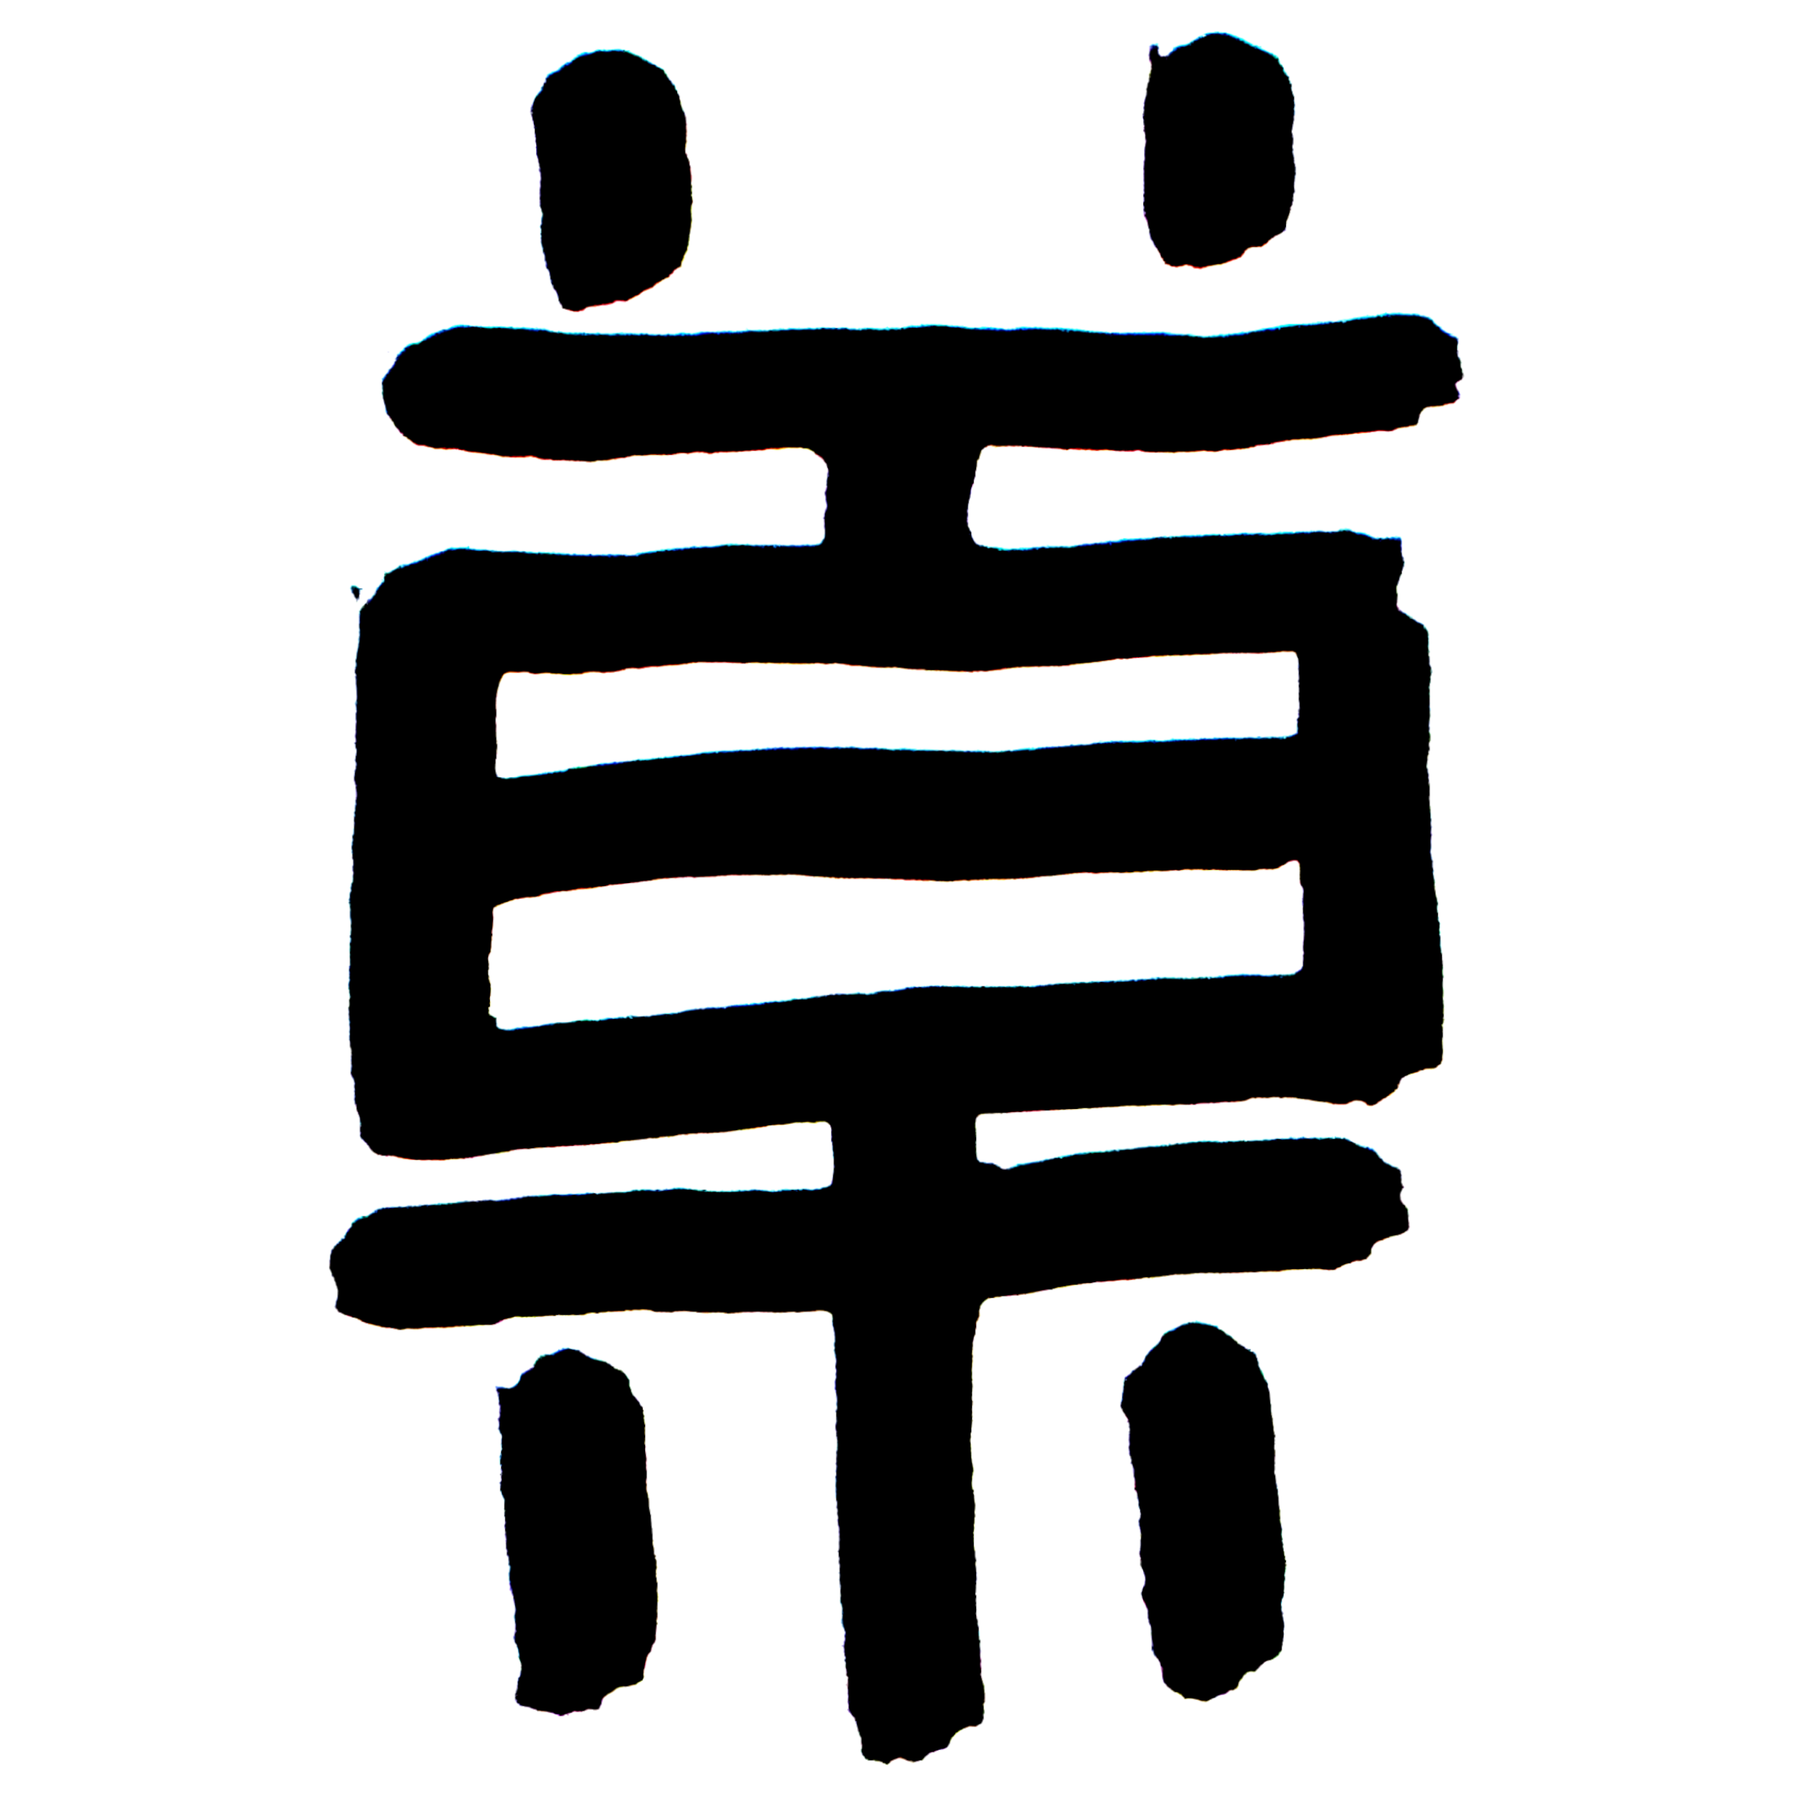
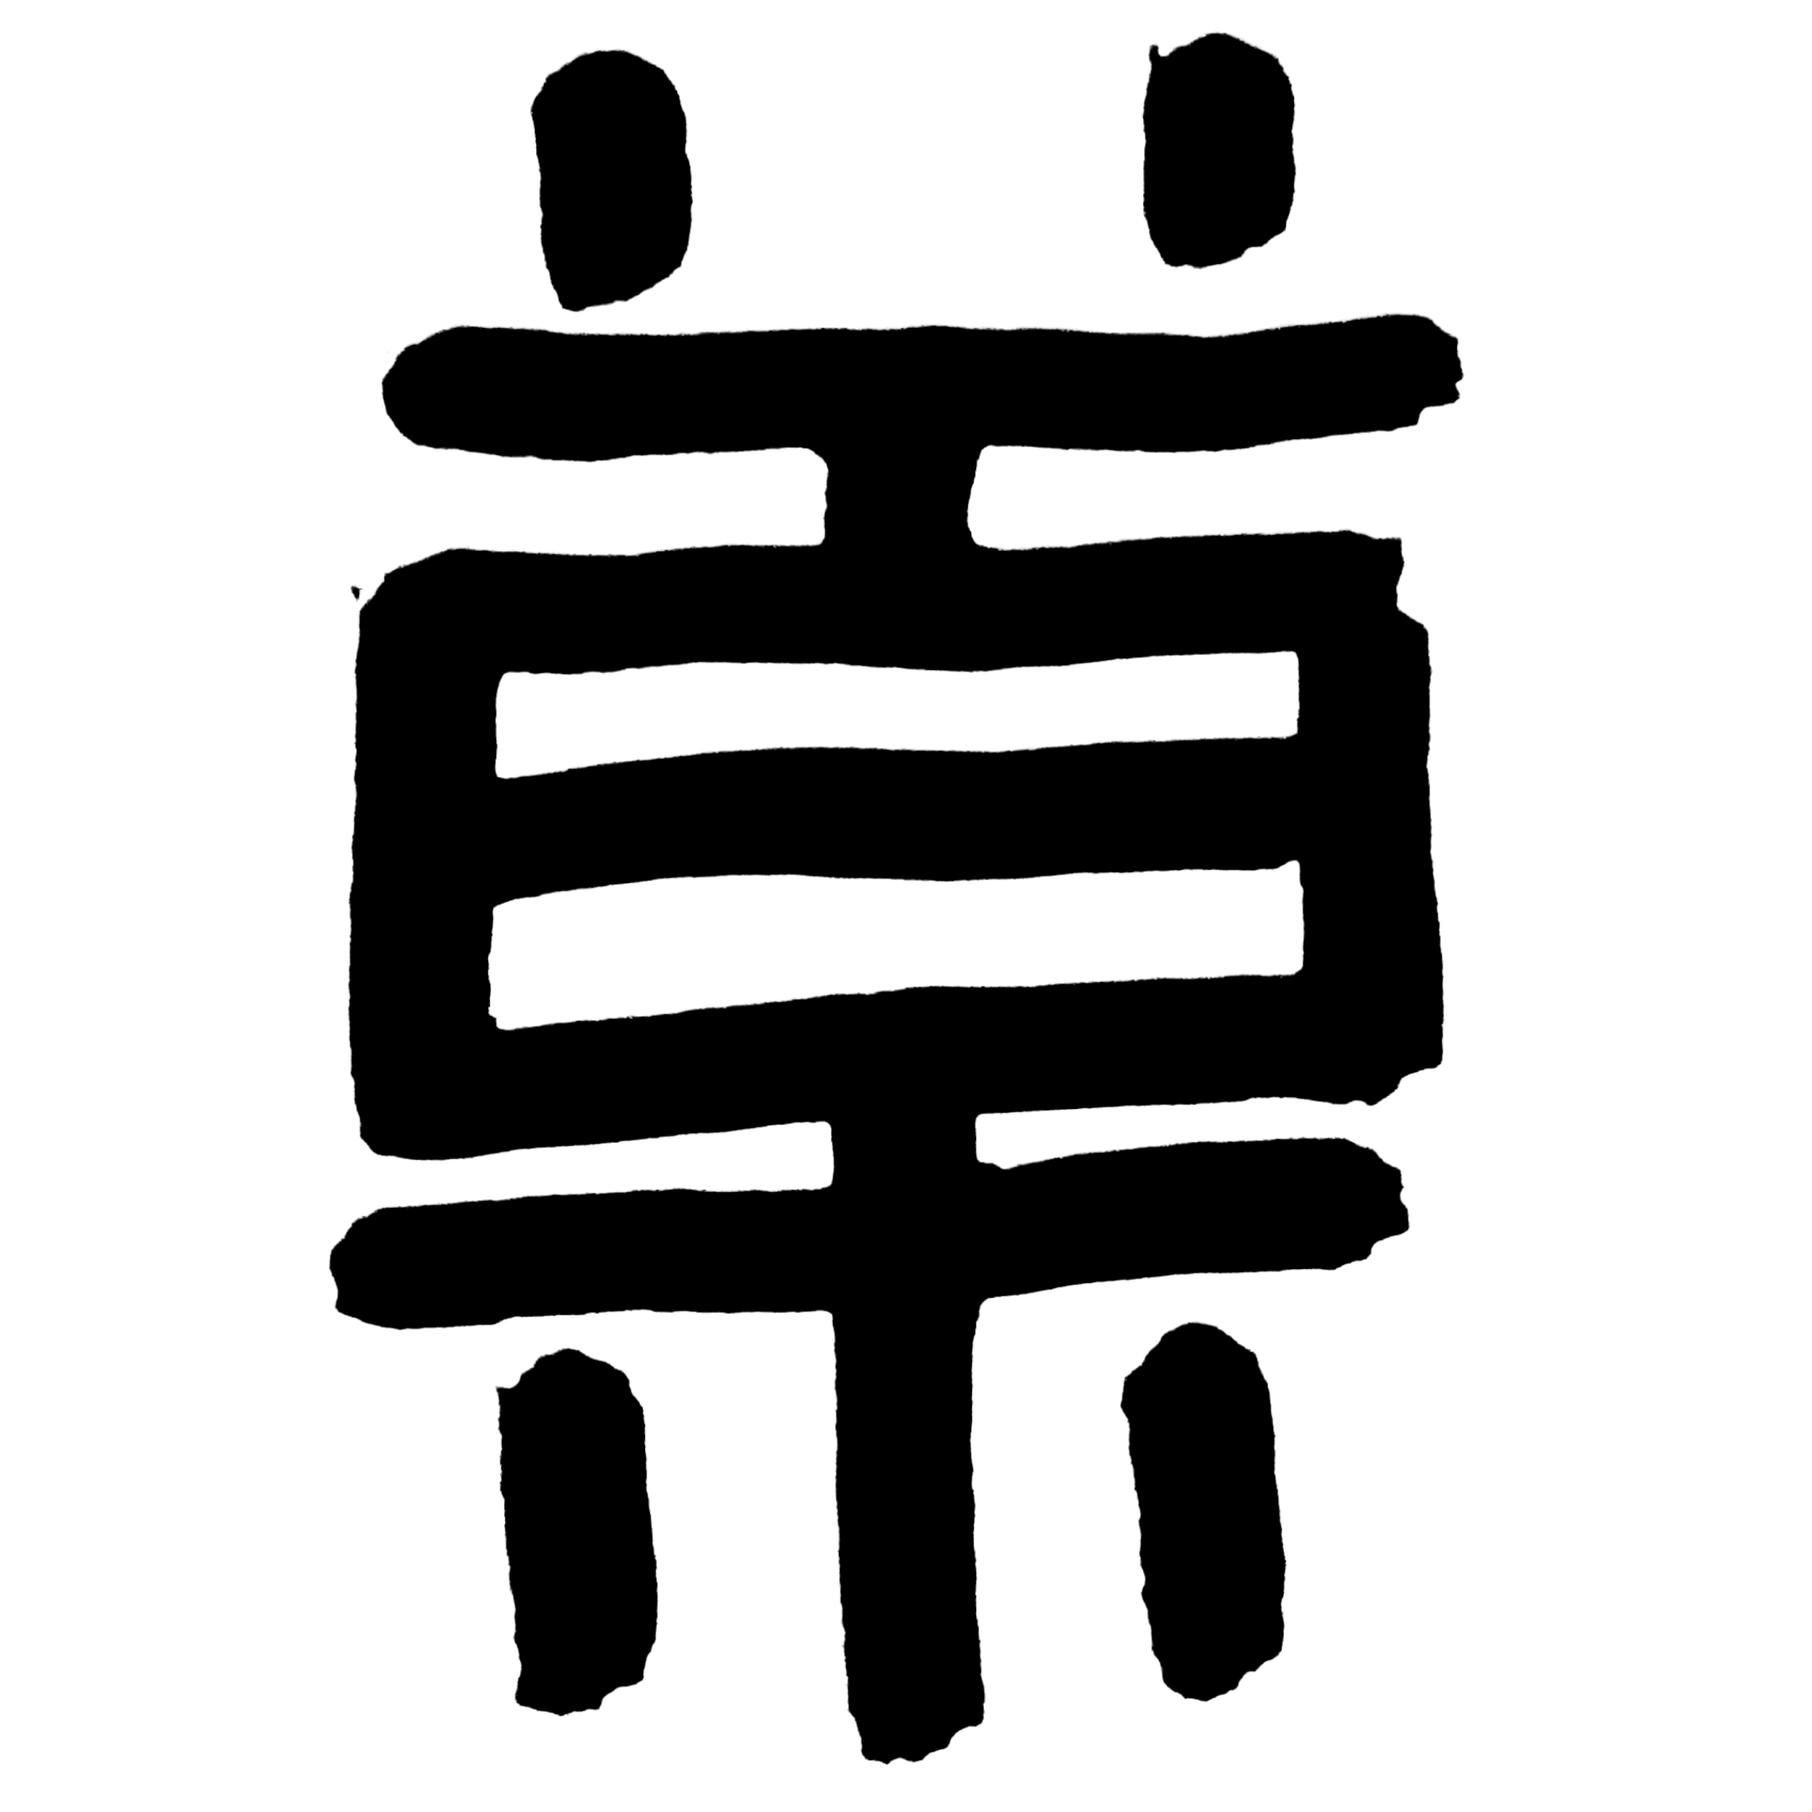
add new image, cut some content, change color, new look 2025

Changed region(s): [[0.31, 0.155, 0.341, 0.186]]

diff --git a/src/template/massage-explanation.tsx b/src/template/massage-explanation.tsx
@@ -11,25 +11,30 @@ const MassageExplanation = () => {
   }, []);
   return (
     <div >
-      <Prices />
-      <div className="flex-container">
-        <h2>Horaires</h2>
-        <br />
-        <p>Je suis disponible du <b>samedi au mardi</b>.</p>
-        <p>Contacter moi pour plus d'information.</p>
-        <br />
-      </div>
-      <br />
       <ul className="list">
         <li className="split">
-          <Image src={`${PATH}/documents/img/shooting/ab_02.jpeg`} width={2000} height={2000} placeholder="blur" blurDataURL={`${PATH}/documents/img/fast-loading/lc-ab_02.jpeg`} alt="hand massage picture" />
+          <div>
+            <Image src={`${PATH}/documents/img/shooting/AM_111.jpeg`} width={2000} height={2000} placeholder="blur" blurDataURL={`${PATH}/documents/img/fast-loading/lc-AM_111.jpeg`} alt="hand massage picture" />
+            <Prices />
+            <div className="flex-container">
+              <br />
+              <h1>Disponibilités</h1>
+              <br />
+              <p>Je suis disponible du <b>samedi au mardi</b>.</p>
+              <p>Contacter moi pour plus d'information.</p>
+              <br />
+            </div>
+          </div>
           <div className="flex-container">
-            <h2>Déroulement d'une séance</h2>
             <br />
-            <h3 className="right">Phase I :</h3><p>Chaque séance débute par un moment d’échange où vous partagez vos attentes, vos éventuelles tensions, ou simplement vos besoins du moment.</p>
-            <h3 className="right">Phase II :</h3><p>Je m'appuie sur mon expérience en Reiki et ma compréhension de l'équilibre corps-esprit pour adapter mes gestes à vos besoins.</p>
-            <h3 className="right">Phase III :</h3><p>À la fin de la séance, un temps est réservé pour revenir doucement à vous, avec éventuellement un échange pour approfondir les bienfaits du massage.</p>
+            <h3 className="right">Reiki :</h3><p>C'est ma porte d'entrée dans ce monde de la relaxation de l'écoute. Permet des effets inattendus, permet une bonne introduction en début de séance ou même pour la terminer. Un bon moyen d'atteindre un état de relaxation profond. S'utilise aussi en séance complète, même si ce n'est pas pour tout le monde.</p>
             <br />
+            <h3 className="right">Massage des Fascias :</h3><p>Après plusieurs formations sur l'anatomie et l'importance des fascias, c'est quelque chose que j'affectionne pour relâcher les tensions excessives et permettre au corps de regagner une certaine sérénité. Les fascias connectent tous notre corps, des pieds à la tête et passant par les organes. Il est donc essentiel pour moi de les considérer et de leur apporter le soin qu'ils méritent.</p>
+            <br />
+            <h3 className="right">Massage à l'huile :</h3><p>Permet un profond relâchement, grâce au mouvement ample et long que peux apporter quelques gouttes d'huile lors d'un massage. Si vous êtes du genre à vous crisper, une bonne huile de massage et beaucoup de temps, voilà le combo idéal pour vous aider à oublier vos soucis.</p>
+            <br />
+            <h4>À vous de choisir</h4>
+            <p>En fonction de vos envies et de vos besoins, je peux tout à fait mélanger ces trois pratiques. Où vous pouvez vous dédier complètement à l'une où l'autre.</p>
           </div>
         </li>
       </ul>
@@ -39,11 +44,11 @@ const MassageExplanation = () => {
             <button>Réserver par mail</button>
           </a>
         )}
-        {domLoaded && (
+        {/* {domLoaded && (
           <a className="link" href={`tel:${PHONE}`}>
             <button>Réserver par téléhone</button>
           </a>
-        )}
+        )} */}
       </div>
       <br />
     </div>

diff --git a/src/template/landing.tsx b/src/template/landing.tsx
@@ -1,0 +1,49 @@
+import Image from "next/image";
+import { PATH } from "../../utils/constants";
+import { usePathname } from "next/navigation";
+import { useEffect, useState } from "react";
+
+const Landing = () => {
+  const pathname = usePathname()
+  const [domLoaded, setDomLoaded] = useState(false);
+
+  useEffect(() => {
+    setDomLoaded(true);
+  }, []);
+
+  return (
+    <>
+      <div>
+        <ul className="list">
+          <a className="link" href={`${PATH}/massage`}>
+            <li className="split">
+              <Image src={`${PATH}/documents/img/shooting/AM_115.jpeg`} width={2000} height={2000} placeholder="blur" blurDataURL={`${PATH}/documents/img/fast-loading/lc-AM_115.jpeg`} alt="hand massage picture" />
+              <div className="flex-container">
+                <h2>Massage-Reiki</h2>
+                <p>Offrez-vous un moment unique de bien-être où détente physique et harmonie intérieure se rencontrent, grâce à un massage qui écoute votre corps autant que votre esprit.</p>
+                <br />
+                {domLoaded && (
+                  <a className="link right" href={`${PATH}/massage`}>
+                    <button className={pathname === "/massage" ? "active-button" : ""} >Plus d'info</button>
+                  </a>
+                )}
+              </div>
+            </li>
+          </a>
+          <a className="link" href={`${PATH}/about`}>
+            <li className="split">
+              <div className="flex-container">
+                <h2>Qu'est-ce que le Reiki?</h2>
+                <p>
+                  Le Reiki est une pratique énergétique douce et naturelle, destinée à harmoniser le corps et l'esprit. À travers un toucher ou un simple placement des mains, le praticien agit comme un jardinier attentif qui aide à créer les conditions propices à votre épanouissement...
+                </p>
+              </div>
+              <Image src={`${PATH}/documents/img/shooting/AP_029.jpeg`} width={2000} height={2000} placeholder="blur" blurDataURL={`${PATH}/documents/img/fast-loading/lc-AP_029.jpeg`} alt="profil picture" />
+            </li>
+          </a>
+        </ul>
+      </div>
+    </>
+  )
+}
+export default Landing;

diff --git a/src/template/about.tsx b/src/template/about.tsx
@@ -7,13 +7,13 @@ const About = () => {
       <div>
         <ul className="list">
           <li className="split">
-            <Image src={`${PATH}/documents/img/shooting/ab_04.jpeg`} width={2000} height={2000} placeholder="blur" blurDataURL={`${PATH}/documents/img/fast-loading/lc-ab_04.jpeg`} alt="profil picture" />
             <div className="flex-container">
               <h2>Qu'est-ce que le Reiki?</h2>
               <p>
                 Le Reiki est une pratique énergétique douce et naturelle, destinée à harmoniser le corps et l'esprit. À travers un toucher ou un simple placement des mains, le praticien agit comme un jardinier attentif qui aide à créer les conditions propices à votre épanouissement...
               </p>
             </div>
+            <Image src={`${PATH}/documents/img/shooting/AP_029.jpeg`} width={2000} height={2000} placeholder="blur" blurDataURL={`${PATH}/documents/img/fast-loading/lc-AP_029.jpeg`} alt="profil picture" />
           </li>
         </ul>
       </div>

diff --git a/src/template/prices.tsx b/src/template/prices.tsx
@@ -8,20 +8,20 @@ const Prices = () => {
         <thead>
           <tr>
             <th>Durée</th>
-            <th>Habillé</th>
+            <th>Reiki / Fascia</th>
             <th>À l’huile</th>
           </tr>
         </thead>
         <tbody>
           <tr>
             <td data-label="Durée">60 min</td>
-            <td data-label="Massage habillé">55 €</td>
-            <td data-label="Massage à l’huile">60 €</td>
+            <td data-label="Massage habillé">60 €</td>
+            <td data-label="Massage à l’huile">65 €</td>
           </tr>
           <tr>
             <td data-label="Durée">90 min</td>
-            <td data-label="Massage habillé">70 €</td>
-            <td data-label="Massage à l’huile">75 €</td>
+            <td data-label="Massage habillé">75 €</td>
+            <td data-label="Massage à l’huile">80 €</td>
           </tr>
         </tbody>
       </table>

diff --git a/src/template/header.tsx b/src/template/header.tsx
@@ -5,10 +5,10 @@ const Header = () => {
   return (
     <div className="header flex-container" >
       <div className="header-text">
-        <h2 >"La personne la plus importante dans votre vie c'est vous-même. Sans énergie pour soi, il est impossible d'aider les autres."</h2>
+        <h2 >"La personne la plus importante dans votre vie c'est vous-même. Sans énergie pour soi, il est impossible d'être présent pour les autres."</h2>
         <p >Didier Dom</p>
       </div>
-      <Image src={`${PATH}/documents/img/shooting/pm_04.JPG`} width={2000} height={2000} placeholder="blur" blurDataURL={`${PATH}/documents/img/fast-loading/lc-pm_04.JPG`} alt="close up hands" />
+      <Image src={`${PATH}/documents/img/shooting/AM_039.jpeg`} width={2000} height={2000} placeholder="blur" blurDataURL={`${PATH}/documents/img/fast-loading/lc-AM_039.jpeg`} alt="close up hands" />
     </div>
   )
 }

diff --git a/src/template/navbar.tsx b/src/template/navbar.tsx
@@ -18,11 +18,11 @@ const Navbar = () => {
             <button className={pathname === "/" ? "active-button" : ""}>Accueil</button>
           </a>
           <a className="link" href={`${PATH}/massage`}>
-            <button className={pathname === "/massage" ? "active-button" : ""} >Tarifs</button>
+            <button className={pathname === "/massage" ? "active-button" : ""} >Mes services</button>
           </a>
-          <a className="link" href={`${PATH}/gallery`}>
+          {/* <a className="link" href={`${PATH}/gallery`}>
             <button className={pathname === "/gallery" ? "active-button" : ""} >Galerie</button>
-          </a>
+          </a> */}
           <a className="link" href={`${PATH}/about`}>
             <button className={pathname === "/about" ? "active-button" : ""} >À propos</button>
           </a>

diff --git a/src/template/navbar-about.tsx b/src/template/navbar-about.tsx
@@ -13,7 +13,7 @@ const NavbarAbout: FC<PROPS> = ({ subPage, setSubPage }) => {
         <div className="index-grid container">
           <button className={subPage === "What" ? "active-button" : ""} onClick={() => setSubPage("What")}>Qu'est-ce que le Reiki?</button>
           <button className={subPage === "Approach" ? "active-button" : ""} onClick={() => setSubPage("Approach")}>Mon approche</button>
-          <button className={subPage === "Table" ? "active-button" : ""} onClick={() => setSubPage("Table")}>À table</button>
+          {/* <button className={subPage === "Table" ? "active-button" : ""} onClick={() => setSubPage("Table")}>À table</button> */}
           {/* <button className={subPage === "About" ? "active-button" : ""} onClick={() => setSubPage("About")}>Mon parcours</button> */}
         </div>
       </div>

diff --git a/src/template/massage.tsx b/src/template/massage.tsx
@@ -16,7 +16,7 @@ const Massage = () => {
       <div>
         <ul className="list">
           <li className="split">
-            <Image src={`${PATH}/documents/img/shooting/ab_02.jpeg`} width={2000} height={2000} placeholder="blur" blurDataURL={`${PATH}/documents/img/fast-loading/lc-ab_02.jpeg`} alt="hand massage picture" />
+            <Image src={`${PATH}/documents/img/shooting/AM_115.jpeg`} width={2000} height={2000} placeholder="blur" blurDataURL={`${PATH}/documents/img/fast-loading/lc-ab_02.jpeg`} alt="hand massage picture" />
             <div className="flex-container">
               <h2>Massage-Reiki</h2>
               <p>Offrez-vous un moment unique de bien-être où détente physique et harmonie intérieure se rencontrent, grâce à un massage qui écoute votre corps autant que votre esprit.</p>

diff --git a/src/styles/design.css b/src/styles/design.css
@@ -14,7 +14,7 @@
 .header-text {
   position: absolute;
   margin: 1.5em;
-  color: white;
+  color: rgb(250, 240, 230);
 }
 
 .active-button {
@@ -47,7 +47,7 @@
 }
 
 .list img {
-  max-width: 16em;
+  max-width: 24em;
   object-fit: contain;
   object-position: 50% 0;
   margin-bottom: 1em;
@@ -57,13 +57,19 @@
 .list {
   width: 100%;
   list-style: none;
-  border-bottom: 1px solid rgba(0, 0, 0, 0.1);
 }
 
 .list li {
   width: 100%;
-  border-top: 1px solid rgba(0, 0, 0, 0.1);
   padding: 1em;
+}
+
+.list li:first-child {
+  border-top: 1px solid rgba(0, 0, 0, 0.1);
+}
+
+.list li:last-child {
+  border-bottom: 1px solid rgba(0, 0, 0, 0.1);
 }
 
 .flex-container {

diff --git a/src/template/what-is-reiki.tsx b/src/template/what-is-reiki.tsx
@@ -6,7 +6,7 @@ const WhatIsReiki = () => {
     <div>
       <ul className="list">
         <li className="split">
-          <Image src={`${PATH}/documents/img/shooting/ab_04.jpeg`} width={2000} height={2000} placeholder="blur" blurDataURL={`${PATH}/documents/img/fast-loading/lc-ab_04.jpeg`} alt="profil picture" />
+          <Image src={`${PATH}/documents/img/shooting/AP_029.jpeg`} width={2000} height={2000} placeholder="blur" blurDataURL={`${PATH}/documents/img/fast-loading/lc-AP_029.jpeg`} alt="profil picture" />
           <div className="flex-container">
             <h2>Qu'est-ce que le Reiki</h2>
             <p>

diff --git a/src/pages/index.tsx b/src/pages/index.tsx
@@ -4,6 +4,7 @@ import Gallery from "@/template/gallery";
 import About from "@/template/about";
 import Footer from "@/template/footer";
 import Navbar from "@/template/navbar";
+import Landing from "@/template/landing";
 
 const Index = () => {
   return (
@@ -16,9 +17,10 @@ const Index = () => {
         <Header />
       </div>
       <div className="index-grid-way">
-        <Massage />
-        <Gallery />
-        <About />
+        <Landing />
+        {/* <Massage /> */}
+        {/* <Gallery /> */}
+        {/* <About /> */}
       </div>
       <div className="index-grid-phylo">
         <Footer />

diff --git a/src/template/approach.tsx b/src/template/approach.tsx
@@ -6,7 +6,7 @@ const Approach = () => {
     <div>
       <ul className="list">
         <li className="split">
-          <Image src={`${PATH}/documents/img/shooting/ab_03.jpeg`} width={2000} height={2000} placeholder="blur" blurDataURL={`${PATH}/documents/img/fast-loading/lc-ab_03.jpeg`} alt="profil picture" />
+          <Image src={`${PATH}/documents/img/shooting/AP_07.jpeg`} width={2000} height={2000} placeholder="blur" blurDataURL={`${PATH}/documents/img/fast-loading/lc-AP_07.jpeg`} alt="profil picture" />
           <div className="flex-container">
             <h2>Mon approche</h2>
             <p>
